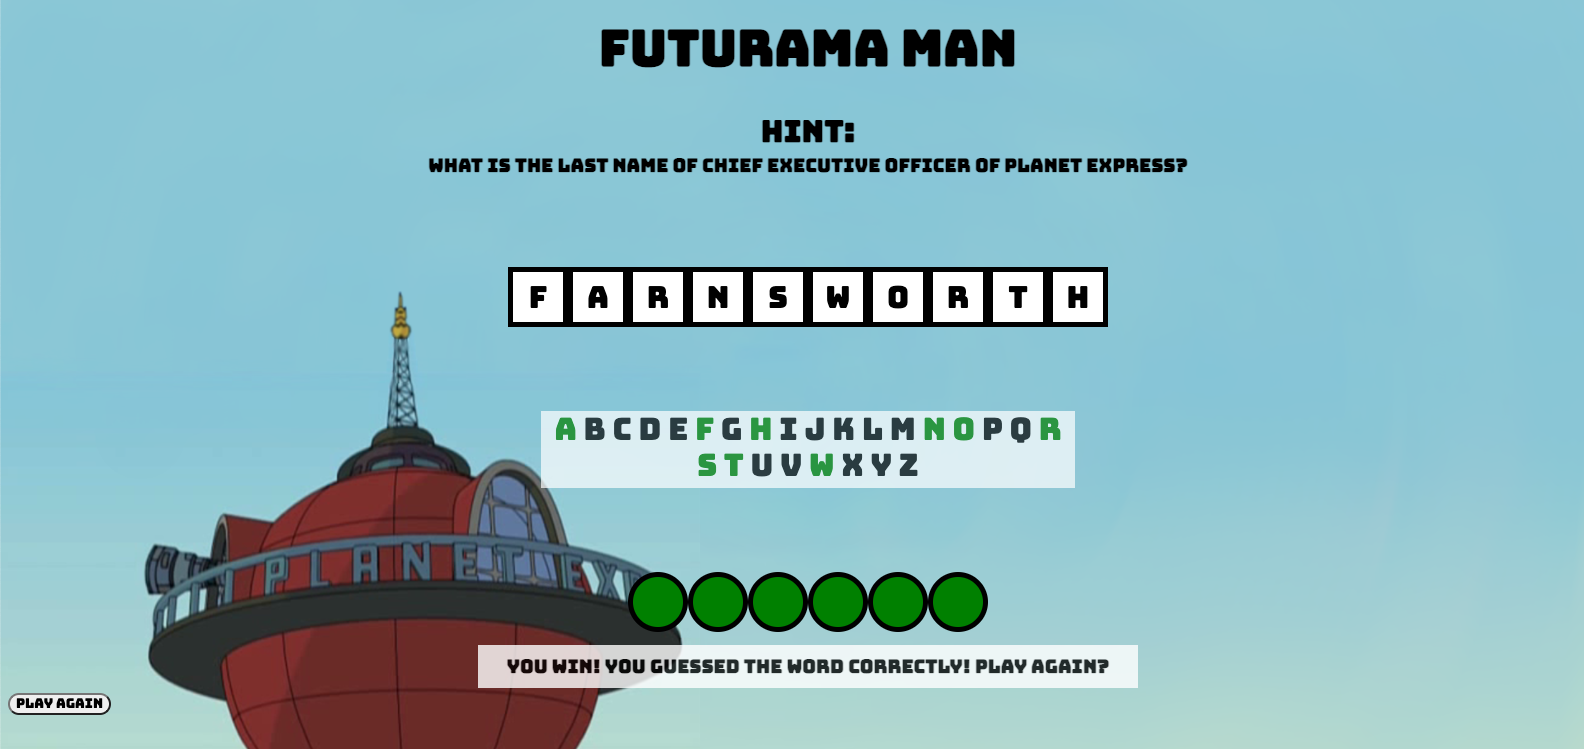
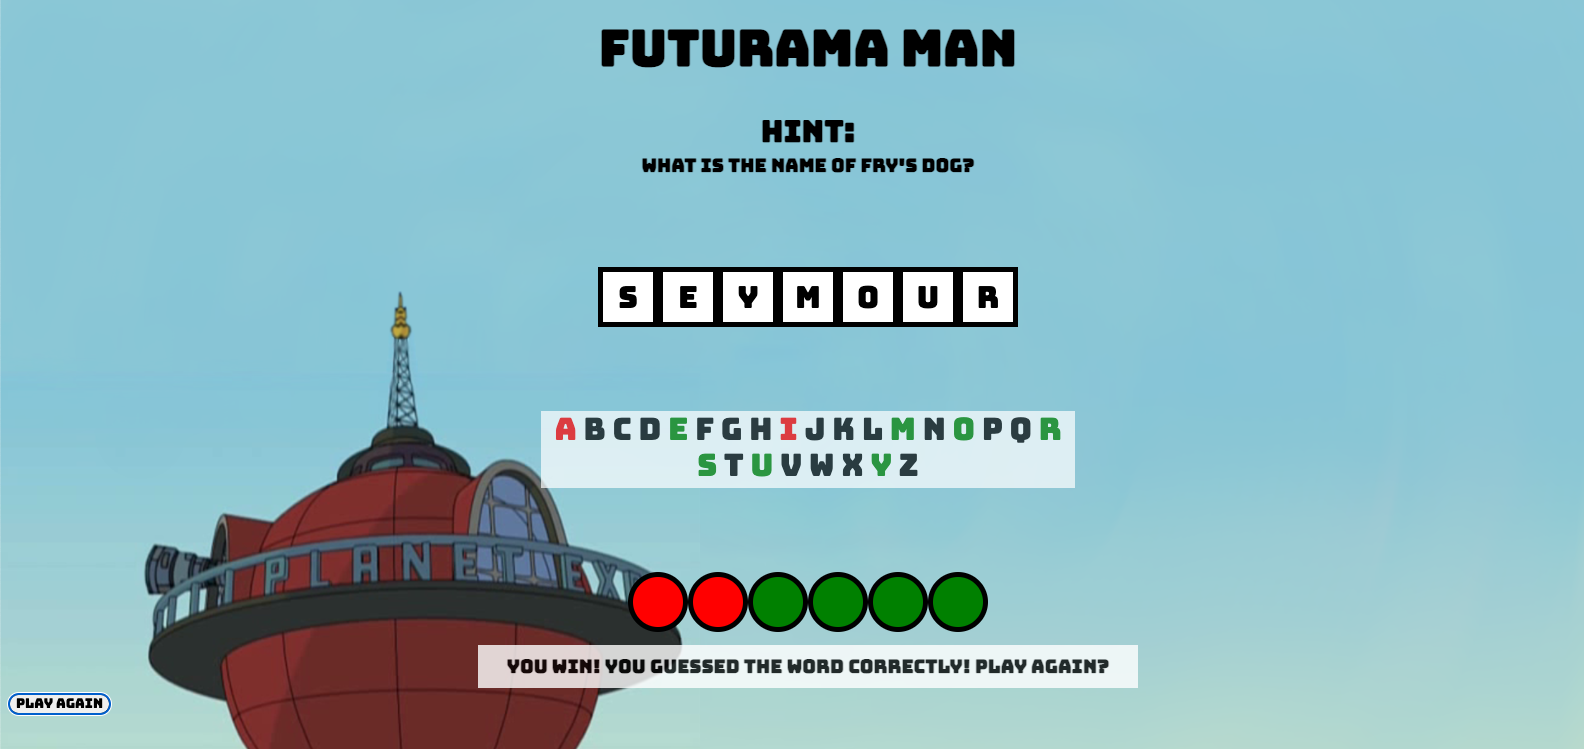
Update game screenshot in README.md

diff --git a/README.md b/README.md
@@ -1,7 +1,7 @@
 # Project-1
 
 **Game-title**
-Futurama-man -- a play on the original Hangman game with a 'Futurama' theme. 
+Futurama-man -- a simple Javascript based game; it is a play on the original Hangman game with a 'Futurama' theme. 
 
 Hangman involves a player guessing a word (represented by a row of dashes) given a hint. The player will guess letter by letter, with correct a letter showing in the dashes, and an incorrect letter removing a life. If the player does not guess the word correctly within six guesses, the game is over and the player has lost. 
 
@@ -13,10 +13,20 @@ In this version, lives are represented by green circles, with a lost life repres
 ![Game lose](./img/game-lose.png)
 
 **Technologies Used** 
-Javascript (Node.js), HTML, CSS (Grid, Flexbox), Visual Studio Code
+Javascript (Node.js), HTML, CSS (Grid, Flexbox), Chrome DevTools, Visual Studio Code
 
 **Getting Started**
 
 
+To start playing, press a key to make your guess. The game will register the key pressed and display if the letter is in the word (will display in the boxes and highlight the correct letter green) or not (will highlight the incorrect letter red and you will lose a life).
+
+If you would like to play again or restart, press the "Play Again" button. 
+
 **Next Steps**
 
+* Have lost lives represented by a hanged Bender figure (rather than circles to represent lives/lost lives).
+* Make the game more responsive (for mobile play).
+* Make letters clickable to input guess.
+* Include words in word bank that have more than one word.
+    *Ex. Dr. Zoidberg
+    *Ex. Planet Express
